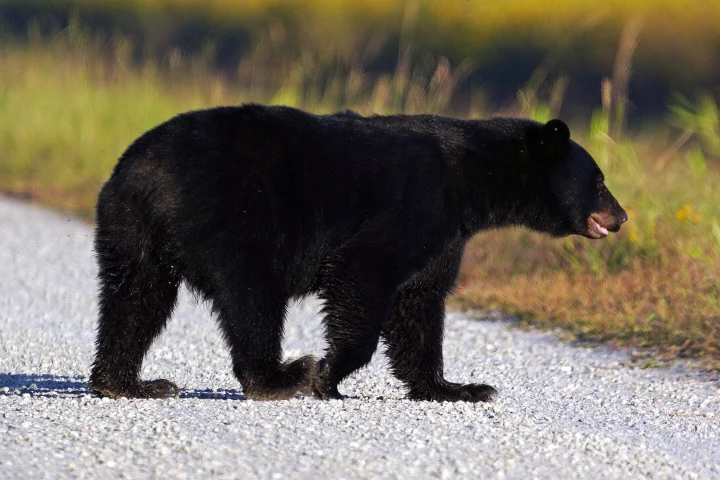
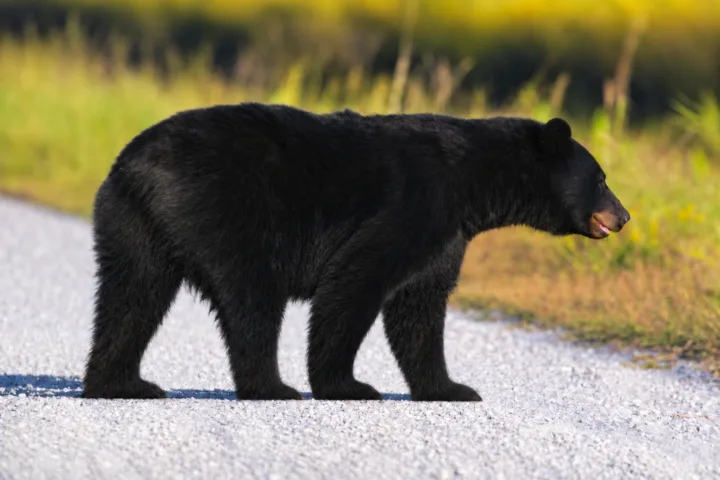
Faunaform: the "Show it a real bear" tile is the new bear photo
The rail's second tile, img/faunaform/bear-fix-photo.webp, is replaced
with the photo Adam supplied, resampled from 2000x1332 to the rail's
720x480 and encoded in Chromium at 0.82: 36 KB, down from 69 KB. The
tag's buster goes to ?v=2; width and height hold at 720x480.

resting.mjs and states.mjs pass scoped to the case study at the same
counts as before (174 resting; 77 across 91 state rules), and the fast
six and readtime.mjs pass.

diff --git a/case-study/faunaform.html b/case-study/faunaform.html
@@ -582,7 +582,7 @@
             <figcaption>Four moves to four legs</figcaption>
             <ol class="writing-rail-steps">
               <li><img src="../img/faunaform/bear-fix-mark.webp?v=1" width="720" height="480" alt="" loading="lazy" decoding="async" /><span class="writing-rail-num" aria-hidden="true">01</span><strong>Point at it</strong><span>the extra leg painted magenta, so the edit stays there</span></li>
-              <li><img src="../img/faunaform/bear-fix-photo.webp?v=1" width="720" height="480" alt="" loading="lazy" decoding="async" /><span class="writing-rail-num" aria-hidden="true">02</span><strong>Show it a real bear</strong><span>a public-domain photo of a black bear walking, sent with the brief</span></li>
+              <li><img src="../img/faunaform/bear-fix-photo.webp?v=2" width="720" height="480" alt="" loading="lazy" decoding="async" /><span class="writing-rail-num" aria-hidden="true">02</span><strong>Show it a real bear</strong><span>a public-domain photo of a black bear walking, sent with the brief</span></li>
               <li><img src="../img/faunaform/bear-fix-take-c.webp?v=2" width="720" height="480" alt="" loading="lazy" decoding="async" /><span class="writing-rail-num" aria-hidden="true">03</span><strong>Ask three times, then measure</strong><span>one brief in three fresh chats; take C changed least and printed cleanest</span></li>
               <li><img src="../img/faunaform/bear-fix-paws.webp?v=1" width="720" height="480" alt="" loading="lazy" decoding="async" /><span class="writing-rail-num" aria-hidden="true">04</span><strong>Look again</strong><span>C&rsquo;s paws read as human feet, so one more pass moved only the paws</span></li>
             </ol>
